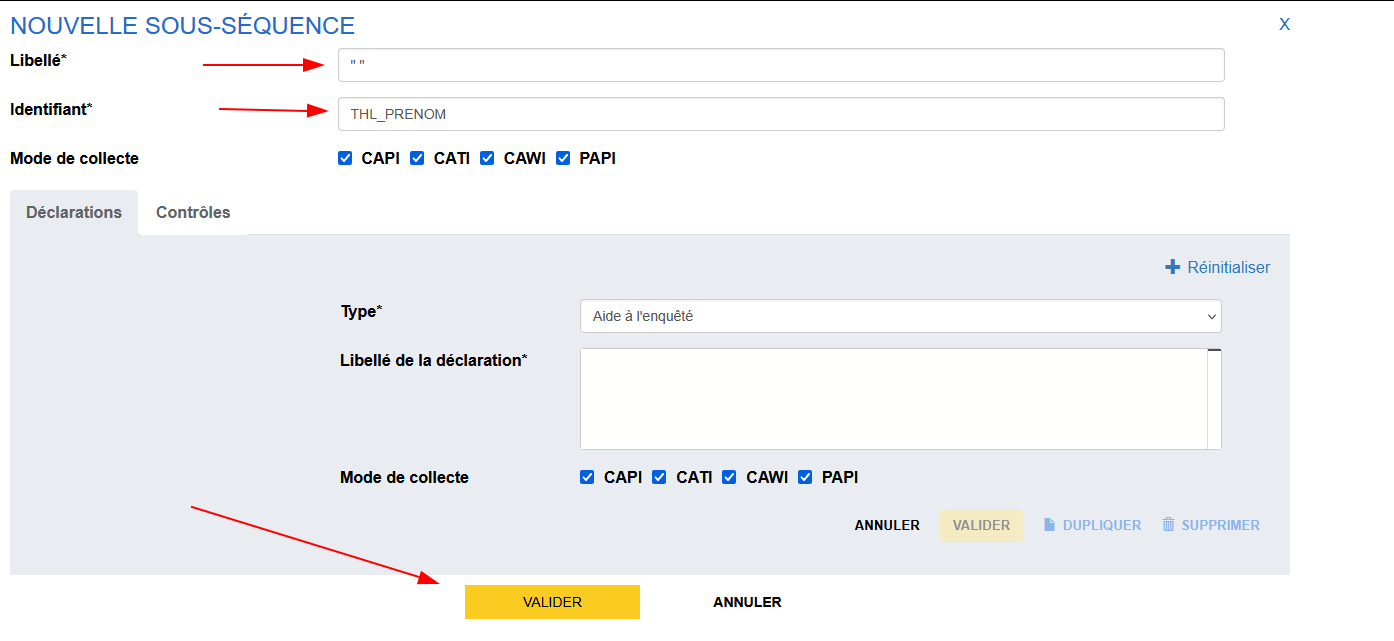
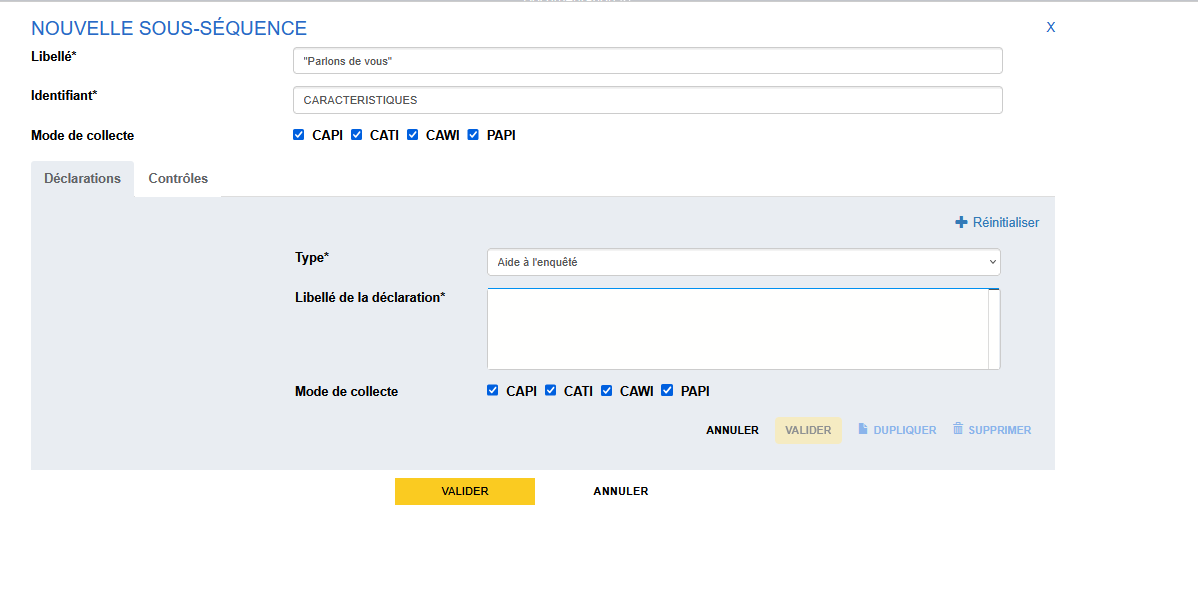
Jusqu'à page 13

diff --git a/bowiedocs/docs/1._Pogues/💡_Tutoriel_(MAJ_en_cours)/13-elaboration-structure.md b/bowiedocs/docs/1._Pogues/💡_Tutoriel_(MAJ_en_cours)/13-elaboration-structure.md
@@ -1,0 +1,97 @@
+# Construction de la structure du questionnaire
+
+
+## Structure de la séquence "Quelques informations sur vous"
+Nous poursuivons la construction du questionnaire en spécifiant les sous-séquences et les questions de la première séquence "Quelques informations sur vous". Pour rappel, la composition de cette séquence ressemble à ça :
+
+```
+Questionnaire
+|-- [Séquence] INDIV
+|   |-- [Question simple] PRENOM
+|   |-- [Sous-séquence] CARACTERISTIQUES
+|   |   |-- [Question simple] T_DATENAIS 
+|   |   |-- [Question à choix unique] T_SEXE 
+|   |   |-- [Question à choix multiple] T_NATIO 
+|   |   |-- [Question à choix unique, recherche sur liste] T_NATIONETR 
+|   |-- [Sous-séquence] TRAVAIL
+|       |-- [Tableau] ACTIVITES
+|       |-- [Question simple] COMBIEN_PARTAGE
+|   |-- [Sous-séquence] COLLEGUE
+|   |   |-- [Question à choix unique] TEMPS_PARTIEL 
+|   |   |-- [Question à choix unique] COLLABORATION
+|-- [Séquence] EXO
+```
+
+## Création des sous-séquences
+D’abord, créons les trois sous-séquences. 
+
+Commençons par la sous-séquence `CARACTERISTIQUES`. Pour cela on se place dans la séquence qui nous intéresse, sur l'élément sous lequel on veut voir apparaître notre sous-séquence : on clique sur la question `PRENOM` puis on clique sur le bouton "Sous-séquence" dans le bandeau du haut.
+![Créer une sous-séquence](../../img/pogues/sub-seq-creation.png)
+
+Il suffit ensuite de remplir la modale qui vient de s'ouvrir avec les informations suivantes et valider.
+
+- _Identifiant_ : `CARACTERISTIQUES`
+- _Libellé_ : "Parlons de vous"
+
+![alt text](../../img/pogues/sub-seq-creation-modal.png)
+
+Faire de même avec les deux autres sous-séquences :
+
+- sous-séquence `TRAVAIL` ayant le libellé "Votre environnement de travail";
+- sous-séquence `COLLEGUE` ayant le libellé "Parlez-nous de votre collègue".
+
+??? success "Solution"
+    ![alt text](../../img/pogues/sub-seq-creation-solution.png)
+
+!!! abstract "Pour aller plus loin"
+    - [Les sous-séquences](../🚀_Guide/11-sous-sequences.md)
+
+
+### Question sur la date de naissance
+Nous allons créer maintenant une question simple, `T_DATENAIS`, mais avec un nouveau type de réponse, le type "Date".
+
+On a besoin pour ce type de question de spécifier un format (AAAA-MM-JJ, AAAA-MM, AAAA) et des bornes minimum et maximum, décrites selon le format choisi.
+
+!!! example "Cas pratique"
+    Placez vous sur la sous-séquence `THL_DHL` puis créez une nouvelle question simple avec les information suivantes :
+
+    - _Libellé_ : "Quelle est votre date de naissance ?"
+    - _Identifiant_ : `T_DATENAIS`
+    - _Type de question_ : Réponse simple
+    - _Type de réponse_ : Date
+    - _Format_ : AAAA-MM-JJ
+    - _Minimum_ : `1900-01-01`
+    - _Maximum_ : `2026-12-31`
+
+??? success "Solution"
+    ![alt text](../../img/pogues/question-creation-simple-date.png)
+
+Générez la variable puis validez.
+
+!!! abstract "Pour aller plus loin"
+    - [Les questions simples de type date](../🚀_Guide/Questions/13-reponse-simple.md/#type-de-reponse-date)
+
+Ici on récupère bien une date au format année/mois/jour. Nous verrons plus tard comment réutiliser cette variable collectée pour calculer l'âge via justement ce qu'on appelle une "variable calculée".
+
+
+
+### Visualiser, c'est tester !
+
+!!! info "On n'oublie pas de Visualiser et Sauvegarder si la visualisation est valide !"
+    Nous avons fait quelques changements dans le questionnaire. Une bonne pratique est de ne pas attendre d'avoir fait trop de changements avant de visualiser pour les valider. Il faut aller pas à pas pour bien maîtriser ce que l'on fait.
+
+Cette fois, utilisons la visualisation "Web entreprise". Cette visualisation a la particularité de mettre **toutes les questions d'une même séquence sur la même page**. 
+
+On observe ainsi toute la structure de la première séquence, avec l'enchaînement des sous-séquences et les questions qu'elles contiennent.
+![Visualisation en contexte entrepris](../../img/pogues/visu-business.png)
+
+
+Lorsqu'on est satisfaits des changements réalisés, **on sauvegarde !**
+
+!!! tip "N'hésitez pas à varier les contextes de visualisation durant tout ce tutoriel"
+
+!!! abstract "Pour aller plus loin"
+    - [La visualisation web](../../5._Orchestrateurs/Stromae-DSFR/index.md)
+
+## Suite
+Nous allons maintenant voir comment créer une [question à choix unique (QCU)](14-creation-liste-qcu.md).

diff --git a/bowiedocs/docs/1._Pogues/💡_Tutoriel_(MAJ_en_cours)/12-visualisation-questionnaire.md b/bowiedocs/docs/1._Pogues/💡_Tutoriel_(MAJ_en_cours)/12-visualisation-questionnaire.md
@@ -10,7 +10,7 @@ Pour cette première fois, on choisit l'option "Web ménage".
 
 !!! note
 
-    Pour des raisons historiques, on a aujourd'hui trois cibles de génération pour un questionnaire web. Cependant, "Web V1" disparaîtra lorsque toutes les enquêtes sous Coltrane auront totalement basculées dans la Filière d'Enquête.
+    Pour des raisons historiques, on a aujourd'hui trois cibles de génération pour un questionnaire web. Cependant, "Web V1" disparaîtra lorsque toutes les enquêtes sous Coltrane auront totalement basculé dans la Filière d'Enquête.
 
 Après quelques secondes de création, le questionnaire _web_ est ouvert dans un nouvel onglet du navigateur.
 
@@ -18,15 +18,15 @@ Après quelques secondes de création, le questionnaire _web_ est ouvert dans un
 
     La version du questionnaire ainsi générée est très proche du rendu final mais ne dispose pas de toutes les fonctionnalités d'un questionnaire complètement intégré à la plateforme de collecte.
 
-    Par exemple, on ne dispose pas dans cette "visualisation simple" de l'injection de _variables externes_ ou _variables collectées pré-remplies_. Nous verrons ça plus tard dans le questionnaire.
+    Par exemple, on ne dispose pas dans cette "visualisation simple" de la visualisation "personnalisée" avec l'injection de _variables externes_ ou _variables collectées pré-remplies_. Nous verrons ça plus tard dans le questionnaire.
 
 Vous pouvez vérifier que le questionnaire produit est fidèle à la conception faite dans Pogues.
 
 ??? success "Solution"
     Vous devriez avoir une question qui s'affiche sous la forme suivante :
-    ![visu first question](../../img/pogues/visulisation-1st-question.png)
+    ![visu first question](../../img/pogues/visualisation-1st-question.png)
 
-Nous venons de boucler un premier cycle dans la construction d'un questionnaire dans Pogues
+Nous venons de boucler un premier cycle dans la construction d'un questionnaire dans Pogues.
 
 ``` mermaid
 graph TD
@@ -40,4 +40,4 @@ graph TD
     - [Personnaliser un questionnaire](../🚀_Guide/Personnalisation/index.md)
 
 ## Suite
-Nous allons maintenant créer la suite de notre questionnaire avec la séquence sur le ["Tableau des habitants du logement"](13-elaboration-thl.md).
+Nous allons maintenant poursuivre la création des questions de la séquence "Quelques informations sur vous".
